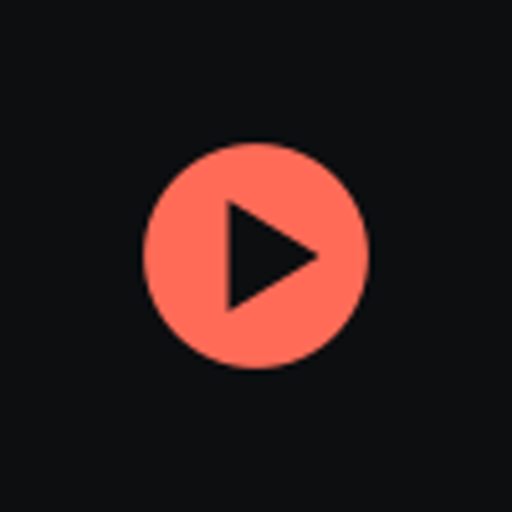
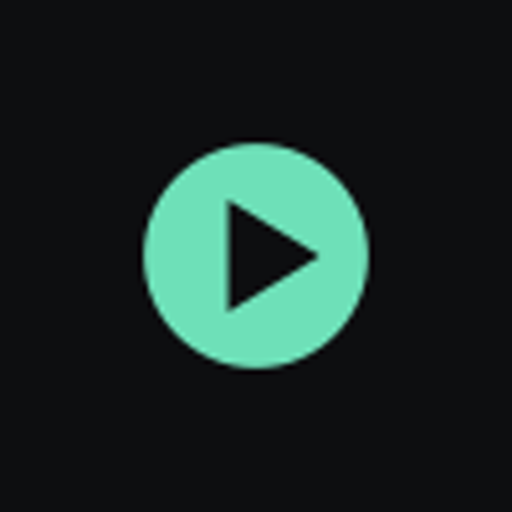
Change Stream's accent from coral to mint
The accent colour changes in the app, its icon and the Jellyfin theme.
Error text moves from salmon to a plain soft red so it no longer reads
as the old accent.

Claude-Session: https://claude.ai/code/session_01PeAKFTAxmkzQvVJ1U4y1v7

Changed region(s): [[0.25, 0.25, 0.75, 0.75]]

diff --git a/stream/jellyfin-theme.css b/stream/jellyfin-theme.css
@@ -14,7 +14,7 @@
  *   line    #2a2d33   dividers        line-2 #3a3d44 borders
  *   paper   #edebe6   text, focus ring
  *   body    #cfcdc6   reading text    muted  #a3a19b labels
- *   accent  #ff6b57   the one action, progress
+ *   accent  #6ee0b8   the one action, progress
  *
  * Shapes follow the Stream app: 14px corners on artwork, pill-shaped
  * buttons, and translucent blurred bars where the device supports blur.
@@ -29,13 +29,13 @@
  * too old for variables skip this block and use the rules below instead. */
 html:root,
 html:root[data-mui-color-scheme] {
-    --jf-palette-primary-main: #ff6b57 !important;
-    --jf-palette-primary-mainChannel: 255 107 87 !important;
-    --jf-palette-primary-light: #ff8271 !important;
-    --jf-palette-primary-dark: #e2553f !important;
+    --jf-palette-primary-main: #6ee0b8 !important;
+    --jf-palette-primary-mainChannel: 110 224 184 !important;
+    --jf-palette-primary-light: #8cecc9 !important;
+    --jf-palette-primary-dark: #4fc79d !important;
     --jf-palette-primary-contrastText: #0d0e10 !important;
-    --jf-palette-secondary-main: #ff6b57 !important;
-    --jf-palette-secondary-mainChannel: 255 107 87 !important;
+    --jf-palette-secondary-main: #6ee0b8 !important;
+    --jf-palette-secondary-mainChannel: 110 224 184 !important;
     --jf-palette-secondary-contrastText: #0d0e10 !important;
     --jf-palette-background-default: #0d0e10 !important;
     --jf-palette-background-paper: #15171c !important;
@@ -186,12 +186,12 @@ html,
 .itemProgressBarForeground,
 .emby-checkbox:checked + span + .checkboxOutline,
 .mdl-slider-background-lower {
-    background-color: #ff6b57 !important;
+    background-color: #6ee0b8 !important;
 }
 
 .emby-checkbox:checked + span + .checkboxOutline,
 .progressring-spiner {
-    border-color: #ff6b57 !important;
+    border-color: #6ee0b8 !important;
 }
 
 .countIndicator,
@@ -199,7 +199,7 @@ html,
 .mediaSourceIndicator,
 .playedIndicator,
 .selectionCommandsPanel {
-    background: #ff6b57 !important;
+    background: #6ee0b8 !important;
     color: #0d0e10 !important;
 }
 
@@ -215,7 +215,7 @@ html,
 .inputLabelFocused,
 .selectLabelFocused,
 .textareaLabelFocused {
-    color: #ff6b57 !important;
+    color: #6ee0b8 !important;
 }
 
 /* ---------- Buttons ---------- */
@@ -242,7 +242,7 @@ a[data-role="button"] {
 .button-submit,
 .button-submit:hover,
 .mainDetailButtons .detailButton.btnPlay {
-    background: #ff6b57 !important;
+    background: #6ee0b8 !important;
     color: #0d0e10 !important;
 }
 
@@ -252,7 +252,7 @@ a[data-role="button"] {
 .button-submit:focus,
 .alphaPickerButton-tv:focus,
 .emby-select-tv-withcolor:focus {
-    background: #ff6b57 !important;
+    background: #6ee0b8 !important;
     color: #0d0e10 !important;
 }
 
@@ -268,7 +268,7 @@ a[data-role="button"] {
 }
 
 .paper-icon-button-light.show-focus:focus {
-    color: #ff6b57 !important;
+    color: #6ee0b8 !important;
 }
 
 /* ---------- Menu and lists ---------- */
@@ -296,7 +296,7 @@ a[data-role="button"] {
 .emby-input:focus,
 .emby-textarea:focus,
 .emby-select-withcolor:focus {
-    border-color: #ff6b57 !important;
+    border-color: #6ee0b8 !important;
 }
 
 .emby-select-withcolor > option {

diff --git a/stream/web/src/styles.css b/stream/web/src/styles.css
@@ -1,4 +1,4 @@
-/* Stream: the savankong.com palette and type, with one coral accent. */
+/* Stream: the savankong.com palette and type, with one mint accent. */
 :root {
   --ink: #0d0e10;
   --ink-2: #111317;
@@ -9,7 +9,7 @@
   --muted: #a3a19b;
   --line: #2a2d33;
   --line-2: #3a3d44;
-  --accent: #ff6b57;
+  --accent: #6ee0b8;
   --r: 4px;
   --gutter: 40px;
   --display: "Bricolage Grotesque", "Instrument Sans", system-ui, sans-serif;
@@ -262,7 +262,7 @@ p {
 }
 
 .btn-primary:hover {
-  background: #ff8271;
+  background: #8cecc9;
 }
 
 .icon-btn {
@@ -994,7 +994,7 @@ p {
 }
 
 .error {
-  color: #ff9a8c;
+  color: #ff8a8a;
 }
 
 /* ---------- Chips ---------- */
@@ -1325,7 +1325,7 @@ p {
   overflow: hidden;
   pointer-events: none;
   background:
-    radial-gradient(60% 50% at 12% 0%, rgba(255, 107, 87, 0.2), transparent 70%),
+    radial-gradient(60% 50% at 12% 0%, rgba(110, 224, 184, 0.2), transparent 70%),
     radial-gradient(55% 55% at 95% 10%, rgba(90, 120, 190, 0.22), transparent 70%),
     radial-gradient(60% 50% at 50% 110%, rgba(71, 58, 92, 0.35), transparent 70%),
     var(--ink);
@@ -1457,7 +1457,7 @@ p {
 }
 
 .btn-primary:hover {
-  background: #ff8271;
+  background: #8cecc9;
 }
 
 .chip[aria-pressed="true"],
